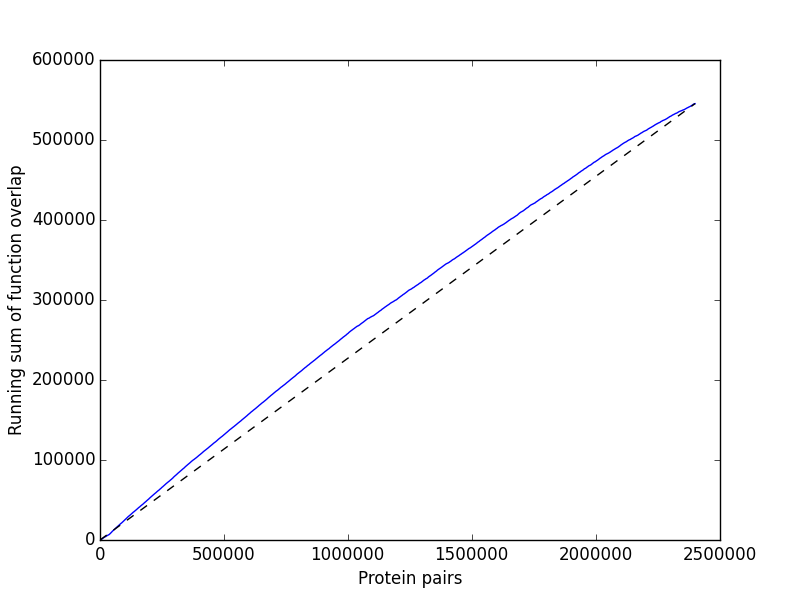
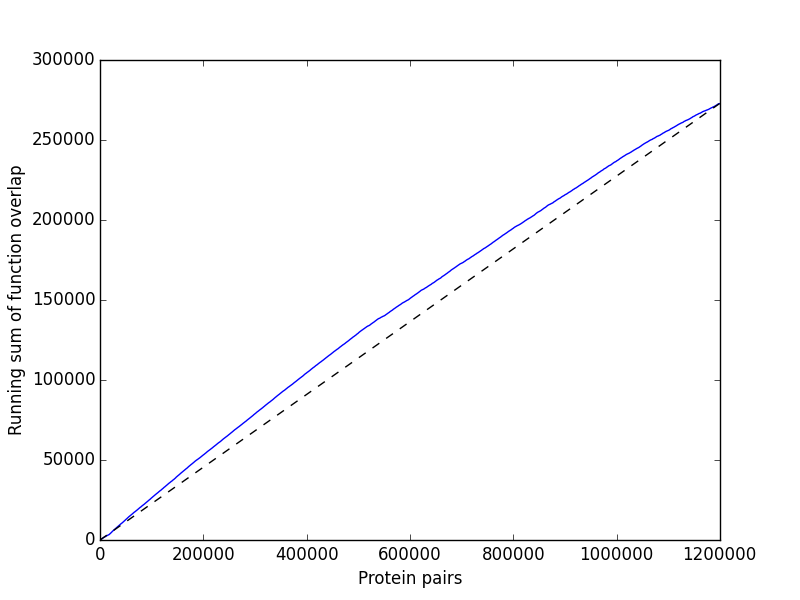
added CI for density plot, changed ravel to triu_ravel

diff --git a/plotting.py b/plotting.py
@@ -33,11 +33,14 @@ def dsd_overlap_pairs(infile, dsdMat=None, overlapMat=None, randomize=False):
     K = expt.overlap_matrix(nodeList, GOfile, overlapMat, randomize=randomize)
 
     # flatten D and K, sort by distance in increasing order
-    DFlat = np.ravel(D)
-    DSorted = np.argsort(DFlat)
+    #DFlat = np.ravel(D)
+    #KFlat = np.ravel(K)
 
-    KFlat = np.ravel(K)
+    DFlat = expt.triu_ravel(D)
+    KFlat = expt.triu_ravel(K)
+    DSorted = np.argsort(DFlat)
     numPairs = len(DSorted)
+
     # running sum of overlap
     overlapRSum = np.zeros(numPairs)
     overlapSum = 0.0
@@ -79,11 +82,14 @@ def pairs_summed_overlap(infile, dsdMat=None, overlapMat=None, randomize=False):
     K = expt.overlap_matrix(nodeList, GOfile, overlapMat, randomize=randomize)
 
     # flatten D and K, sort by distance in increasing order
-    DFlat = np.ravel(D)
-    DSorted = np.argsort(DFlat)
+    #DFlat = np.ravel(D)
+    #KFlat = np.ravel(K)
 
-    KFlat = np.ravel(K)
+    DFlat = expt.triu_ravel(D)
+    KFlat = expt.triu_ravel(K)
+    DSorted = np.argsort(DFlat)
     numPairs = len(DSorted)
+
     # running sum of overlap
     overlapRSum = np.zeros(numPairs)
     overlapSum = 0.0
@@ -120,30 +126,35 @@ def dsd_density(infile, dsdMat=None, overlapMat=None, randomize=False):
     K = expt.overlap_matrix(nodeList, GOfile, overlapMat, randomize=randomize)
 
     # flatten D and K, sort by distance in increasing order
-    DFlat = np.ravel(D)
-    DSorted = np.argsort(DFlat)
+    #DFlat = np.ravel(D)
+    #KFlat = np.ravel(K)
 
-    KFlat = np.ravel(K)
+    DFlat = expt.triu_ravel(D)
+    KFlat = expt.triu_ravel(K)
+    DSorted = np.argsort(DFlat)
     numPairs = len(DSorted)
+
     # list of (summed overlap):(number of pairs) ratios
     overlapRatios = np.zeros(numPairs)
     overlapSum = 0.0
+    posCI = np.zeros(numPairs)
+    negCI = np.zeros(numPairs)
     for n in range(numPairs):
         index = DSorted[n]
         overlapSum += KFlat[index]
-        overlapRatios[n] = overlapSum/(n+1)
+        ratio = overlapSum/(n+1)
+        overlapRatios[n] = ratio
+        # 95% CI
+        std = np.sqrt(ratio * (1-ratio) / (n+1))
+        posCI[n] = ratio + (1.96*std)
+        negCI[n] = ratio - (1.96*std)
 
     # dsd distances in increasing order
     distances = [DFlat[k] for k in DSorted]
 
-    plt.plot(distances, overlapRatios)
+    plt.plot(distances, overlapRatios, 'k-', distances, negCI, 'b--', distances, posCI, 'b--')
+    # set lim to min and max of CI, ignoring the first 1% of pairs
+    plt.ylim((np.min(negCI[(numPairs/100):])-0.01, np.max(posCI[(numPairs/100):])+0.01))
     plt.xlabel("DSD")
     plt.ylabel("Density of function overlap")
-
-# plt.figure(1)
-# plt.subplot(211)
-# pairs_summed_overlap("PPIs and GO/rat.ppi", dsdMat="NumPy files/rat_dsd.npy")
-# plt.subplot(212)
-# pairs_summed_overlap("PPIs and GO/rat.ppi", dsdMat="NumPy files/rat_dsd.npy", randomize=True)
-# plt.show()
 

diff --git a/report.tex b/report.tex
@@ -4,10 +4,9 @@
 \usepackage{float}
 \usepackage{subfig}
 \usepackage[left=.75in,top=.75in,right=.75in,bottom=.75in]{geometry}
-\usepackage{verbatim}
 
 \begin{document} 
-\begin{comment}
+
 \section{rat}
 \begin{figure}[H]
 \centerline{
@@ -19,6 +18,21 @@
 }
 \subfloat[Pairs vs Cumulative Overlap]{
 \includegraphics[width=0.333333333333\textwidth]{plots/rat_pairs_overlap.png}
+}
+}
+\end{figure}
+
+\subsection{Plots based on random permutation of label sets}
+\begin{figure}[H]
+\centerline{
+\subfloat[DSD vs Density]{
+\includegraphics[width=0.333333333333\textwidth]{plots/rat_dsd_density_randomized.png}
+}
+\subfloat[DSD vs Overlap, Pairs]{
+\includegraphics[width=0.333333333333\textwidth]{plots/rat_dsd_overlap_pairs_randomized.png}
+}
+\subfloat[Pairs vs Cumulative Overlap]{
+\includegraphics[width=0.333333333333\textwidth]{plots/rat_pairs_overlap_randomized.png}
 }
 }
 \end{figure}
@@ -37,54 +51,8 @@
 }
 }
 \end{figure}
-\end{comment}
 
-\section{Rat}
-\begin{figure}[H]
-\centerline{
-\subfloat[DSD vs Density]{
-\includegraphics[width=0.333333333333\textwidth]{plots/rat_dsd_density.png}
-}
-\subfloat[DSD vs Overlap, Pairs]{
-\includegraphics[width=0.333333333333\textwidth]{plots/rat_dsd_overlap_pairs.png}
-}
-\subfloat[Pairs vs Cumulative Overlap]{
-\includegraphics[width=0.333333333333\textwidth]{plots/rat_pairs_overlap.png}
-}
-}
-\end{figure}
-
-\subsection{Plots based on randomly permutation of label sets}
-\begin{figure}[H]
-\centerline{
-\subfloat[DSD vs Density]{
-\includegraphics[width=0.333333333333\textwidth]{plots/rat_dsd_density_randomized.png}
-}
-\subfloat[DSD vs Overlap, Pairs]{
-\includegraphics[width=0.333333333333\textwidth]{plots/rat_dsd_overlap_pairs_randomized.png}
-}
-\subfloat[Pairs vs Cumulative Overlap]{
-\includegraphics[width=0.333333333333\textwidth]{plots/rat_pairs_overlap_randomized.png}
-}
-}
-\end{figure}
-
-\section{Mouse}
-\begin{figure}[H]
-\centerline{
-\subfloat[DSD vs Density]{
-\includegraphics[width=0.333333333333\textwidth]{plots/mouse_dsd_density.png}
-}
-\subfloat[DSD vs Overlap, Pairs]{
-\includegraphics[width=0.333333333333\textwidth]{plots/mouse_dsd_overlap_pairs.png}
-}
-\subfloat[Pairs vs Cumulative Overlap]{
-\includegraphics[width=0.333333333333\textwidth]{plots/mouse_pairs_overlap.png}
-}
-}
-\end{figure}
-
-\subsection{Plots based on randomly permutation of label sets}
+\subsection{Plots based on random permutation of label sets}
 \begin{figure}[H]
 \centerline{
 \subfloat[DSD vs Density]{
@@ -98,6 +66,5 @@
 }
 }
 \end{figure}
-
 
 \end{document}

diff --git a/generate_report.py b/generate_report.py
@@ -28,7 +28,7 @@ organisms = options.organisms.split(' ')
 ppiExt = ".ppi"
 
 # folder we want to put plots in
-plotsDir = "plots"
+plotsDir = "test"
 
 # assume that any npy matrices will be in this folder
 # if folder doesnt exist, create
@@ -105,7 +105,7 @@ with open(options.outfile, "a") as f:
         f.write("}\n\\end{figure}\n\n")
 
         # RANDOMIZE
-        f.write("\\subsection{Plots based on randomly permutation of label sets}\n")
+        f.write("\\subsection{Plots based on random permutation of label sets}\n")
         f.write("\\begin{figure}[H]\n\\centerline{\n")
         #################
         # dsd : density #

diff --git a/expt.py b/expt.py
@@ -131,3 +131,16 @@ def overlap_matrix(nodeList, GOfile, npyFile, randomize=False):
         K = np.load(npyFile)
 
     return K
+
+def triu_ravel(A):
+    """
+    Given a matrix, returns the upper triangle (not including main diagonal)
+    as a 1D array. Row-major.
+    """
+    m, n = np.shape(A)
+    flat = np.array([])
+    for i in range(m):
+        if i >= n-1:
+            break
+        flat = np.append(flat, A[i][i+1:])
+    return flat
